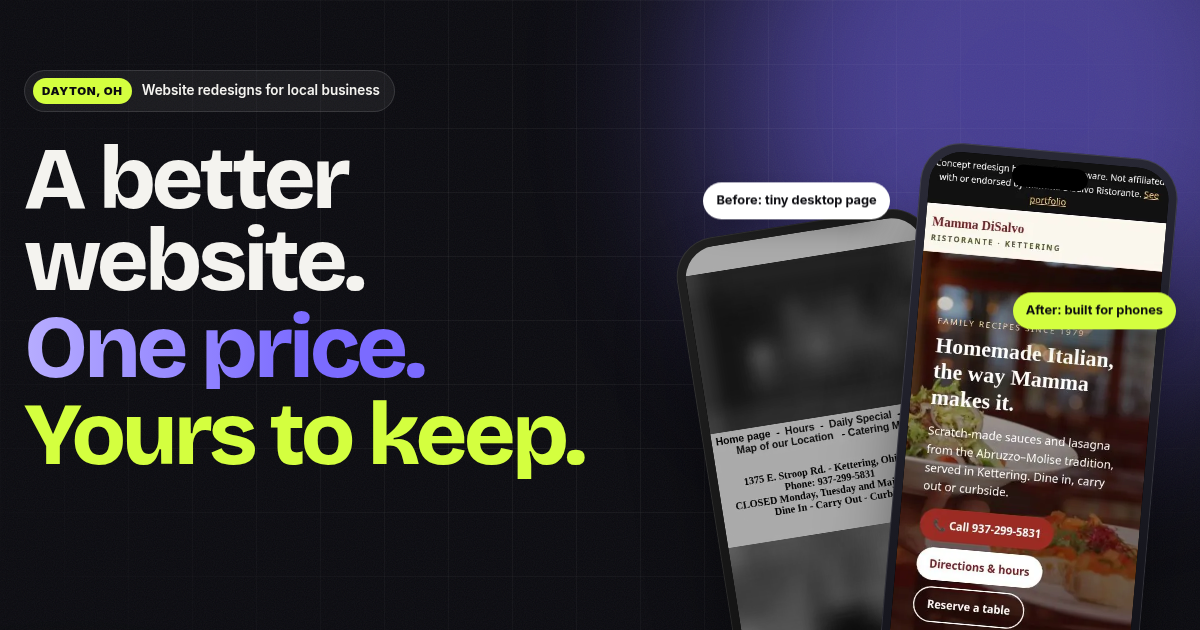
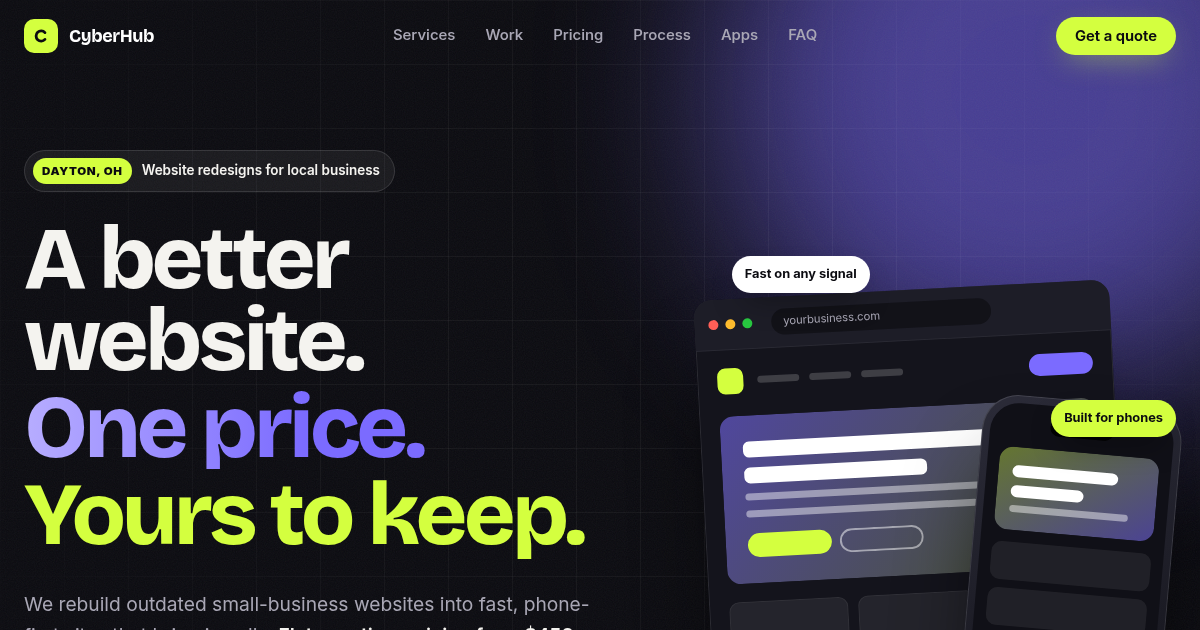
Remove real-business before/afters, portfolio links and images; neutral hero mockup, 'what a redesign includes' section, new OG image

diff --git a/index.html b/index.html
@@ -64,7 +64,7 @@
       <p class="lede" data-reveal style="--d:.35s">We rebuild outdated small-business websites into fast, phone-first sites that bring in calls. <strong>Flat one-time pricing from $450</strong>, a 30-day fix window, and your domain and hosting stay in your name. No monthly fees from us.</p>
       <div class="hero-ctas" data-reveal style="--d:.45s">
         <a class="btn btn-lime" href="mailto:contact@cyberhubsoftware.com?subject=Free%20website%20review">Get a free review <span class="arr" aria-hidden="true">→</span></a>
-        <a class="btn btn-ghost" href="#work">See before &amp; after</a>
+        <a class="btn btn-ghost" href="#work">See what's included</a>
       </div>
       <ul class="hero-facts" data-reveal style="--d:.55s">
         <li><b>$0</b><span>monthly fees</span></li>
@@ -73,13 +73,26 @@
         <li><b>1–3 wks</b><span>typical build</span></li>
       </ul>
     </div>
-    <div class="phones" aria-hidden="true" data-reveal style="--d:.3s">
-      <div class="phone before"><div class="screen"><img src="assets/work/mamma-disalvo-before.webp" alt="" width="390" height="844"></div></div>
-      <div class="phone after"><div class="island"></div><div class="screen"><img src="assets/work/mamma-disalvo-after.webp" alt="" width="390" height="844"></div></div>
-      <span class="tag-float t1 float">Before: tiny desktop page</span>
-      <span class="tag-float t2 float d2">After: built for phones</span>
+    <div class="mock" aria-hidden="true" data-reveal style="--d:.3s">
+      <div class="mock-browser">
+        <div class="mb-bar"><i></i><i></i><i></i><span class="mb-url">yourbusiness.com</span></div>
+        <div class="mb-body">
+          <div class="mb-nav"><span class="mb-logo"></span><span class="mb-links"><b></b><b></b><b></b></span><span class="mb-btn"></span></div>
+          <div class="mb-hero"><span class="mb-h w80"></span><span class="mb-h w55"></span><span class="mb-p"></span><span class="mb-p w70"></span><span class="mb-ctas"><b></b><b></b></span></div>
+          <div class="mb-cards"><span></span><span></span><span></span></div>
+        </div>
+      </div>
+      <div class="mock-phone">
+        <div class="mp-screen">
+          <div class="mp-island"></div>
+          <div class="mp-hero"><span class="mb-h w80"></span><span class="mb-h w55"></span><span class="mb-p"></span></div>
+          <div class="mp-rows"><span></span><span></span><span></span></div>
+          <div class="mp-call">Call now</div>
+        </div>
+      </div>
+      <span class="tag-float t1 float">Fast on any signal</span>
+      <span class="tag-float t2 float d2">Built for phones</span>
       <span class="tag-float t3 float d3">Tap to call ✓</span>
-      <span class="hero-note">Concept redesign, not affiliated with the business</span>
     </div>
   </div>
   <div class="marquee" aria-hidden="true">
@@ -140,64 +153,41 @@
   <div class="wrap">
     <div class="sec-head">
       <div data-reveal>
-        <p class="kicker">Before &amp; after</p>
-        <h2>Same business.<br>A whole new first impression.</h2>
+        <p class="kicker">What a redesign includes</p>
+        <h2>Out with the old site. <br>In with one that works.</h2>
       </div>
-      <p class="lede" data-reveal style="--d:.1s">Concept redesigns of real Dayton-area websites, shown on a phone. Drag the slider to compare the current site with our concept.</p>
+      <p class="lede" data-reveal style="--d:.1s">Here's what changes when we rebuild a typical small-business website, from the first tap on a phone to the call that comes in.</p>
     </div>
-    <div class="cases">
-      <article class="case" data-reveal>
-        <div class="compare">
-          <div class="screen">
-            <img src="assets/work/mamma-disalvo-before.webp" alt="Before: the current Mamma DiSalvo homepage on a phone, a shrunken desktop layout (logo and photos pixelated)" width="390" height="844" loading="lazy">
-            <img class="after-img" src="assets/work/mamma-disalvo-after.webp" alt="After: CyberHub's concept redesign for Mamma DiSalvo on a phone" width="390" height="844" loading="lazy">
-          </div>
-          <span class="lbl b" aria-hidden="true">Before</span><span class="lbl a" aria-hidden="true">After</span>
-          <span class="divider" aria-hidden="true"></span>
-          <span class="knob" aria-hidden="true"><svg width="20" height="20" viewBox="0 0 24 24" fill="none" stroke="currentColor" stroke-width="2.4" stroke-linecap="round" stroke-linejoin="round"><path d="m9 6-6 6 6 6M15 6l6 6-6 6"/></svg></span>
-          <input type="range" min="0" max="100" value="50" step="1" aria-label="Compare before and after for Mamma DiSalvo">
-        </div>
-        <h3>Mamma DiSalvo Ristorante</h3>
-        <p class="where">Italian restaurant · Kettering</p>
-        <span class="concept">Concept redesign · not affiliated</span>
-        <a class="view" href="https://cyberhub28-dotcom.github.io/cyberhub-portfolio/mamma-disalvo/">View the concept →</a>
-      </article>
-      <article class="case" data-reveal style="--d:.1s">
-        <div class="compare">
-          <div class="screen">
-            <img src="assets/work/down-the-pike-before.webp" alt="Before: the current Down the Pike Bar homepage on a phone, an old Weebly layout (logo and photos pixelated)" width="390" height="844" loading="lazy">
-            <img class="after-img" src="assets/work/down-the-pike-after.webp" alt="After: CyberHub's concept redesign for Down the Pike Bar on a phone" width="390" height="844" loading="lazy">
-          </div>
-          <span class="lbl b" aria-hidden="true">Before</span><span class="lbl a" aria-hidden="true">After</span>
-          <span class="divider" aria-hidden="true"></span>
-          <span class="knob" aria-hidden="true"><svg width="20" height="20" viewBox="0 0 24 24" fill="none" stroke="currentColor" stroke-width="2.4" stroke-linecap="round" stroke-linejoin="round"><path d="m9 6-6 6 6 6M15 6l6 6-6 6"/></svg></span>
-          <input type="range" min="0" max="100" value="50" step="1" aria-label="Compare before and after for Down the Pike Bar">
-        </div>
-        <h3>Down the Pike Bar</h3>
-        <p class="where">Bar &amp; grill · West Carrollton</p>
-        <span class="concept">Concept redesign · not affiliated</span>
-        <a class="view" href="https://cyberhub28-dotcom.github.io/cyberhub-portfolio/down-the-pike/">View the concept →</a>
-      </article>
-      <article class="case" data-reveal style="--d:.2s">
-        <div class="compare">
-          <div class="screen">
-            <img src="assets/work/ramke-before.webp" alt="Before: the current Ramke Chiropractic homepage on a phone, a shrunken table layout (photos pixelated)" width="390" height="844" loading="lazy">
-            <img class="after-img" src="assets/work/ramke-after.webp" alt="After: CyberHub's concept redesign for Ramke Chiropractic on a phone" width="390" height="844" loading="lazy">
-          </div>
-          <span class="lbl b" aria-hidden="true">Before</span><span class="lbl a" aria-hidden="true">After</span>
-          <span class="divider" aria-hidden="true"></span>
-          <span class="knob" aria-hidden="true"><svg width="20" height="20" viewBox="0 0 24 24" fill="none" stroke="currentColor" stroke-width="2.4" stroke-linecap="round" stroke-linejoin="round"><path d="m9 6-6 6 6 6M15 6l6 6-6 6"/></svg></span>
-          <input type="range" min="0" max="100" value="50" step="1" aria-label="Compare before and after for Ramke Chiropractic">
-        </div>
-        <h3>Ramke Chiropractic</h3>
-        <p class="where">Chiropractor · Centerville</p>
-        <span class="concept">Concept redesign · not affiliated</span>
-        <a class="view" href="https://cyberhub28-dotcom.github.io/cyberhub-portfolio/ramke-chiropractic/">View the concept →</a>
-      </article>
+    <div class="shift" data-reveal>
+      <div class="shift-col old">
+        <p class="shift-h">The typical outdated site</p>
+        <ul>
+          <li>A tiny desktop page you have to pinch and zoom</li>
+          <li>Phone number buried in a footer or an image</li>
+          <li>Menu or services stuck in a PDF</li>
+          <li>Hours that are hard to find or out of date</li>
+          <li>Slow page builders and autoplaying clutter</li>
+        </ul>
+      </div>
+      <div class="shift-arrow" aria-hidden="true"><svg width="28" height="28" viewBox="0 0 24 24" fill="none" stroke="currentColor" stroke-width="2.4" stroke-linecap="round" stroke-linejoin="round"><path d="M5 12h14M13 6l6 6-6 6"/></svg></div>
+      <div class="shift-col new">
+        <p class="shift-h">Your CyberHub site</p>
+        <ul>
+          <li>Phone-first layout with text you can read at a glance</li>
+          <li>Tap-to-call and one-tap directions on every screen</li>
+          <li>A real web menu or services list Google can read</li>
+          <li>Hours, location and contact right up front</li>
+          <li>Lightweight static pages that load quickly</li>
+        </ul>
+      </div>
     </div>
-    <div class="work-foot" data-reveal>
-      <p>These are unsolicited concept redesigns. They are not affiliated with or endorsed by the businesses shown. "Before" images are phone screenshots of each public homepage taken Oct 18, 2026, with logos and photos of people pixelated. Concepts use free-license stock photos only.</p>
-      <a class="btn btn-ghost" href="https://cyberhub28-dotcom.github.io/cyberhub-portfolio/">Full portfolio <span class="arr" aria-hidden="true">→</span></a>
+    <div class="soon" data-reveal>
+      <span class="soon-dot" aria-hidden="true"></span>
+      <div>
+        <h3>Sample designs coming soon</h3>
+        <p>We're putting together before-and-after sample designs to show here. Want to see what your own site could look like? Ask for a free review.</p>
+      </div>
+      <a class="btn btn-lime" href="mailto:contact@cyberhubsoftware.com?subject=Free%20website%20review">Get a free review <span class="arr" aria-hidden="true">→</span></a>
     </div>
   </div>
 </section>
@@ -393,7 +383,7 @@
   <p class="bigword" aria-hidden="true">CyberHub</p>
   <div class="wrap row">
     <span>© 2026 CyberHub Software, LLC · Dayton, Ohio, USA. All rights reserved.</span>
-    <span><a href="https://cyberhub28-dotcom.github.io/dinneragent-site/privacy">Dinner Agent privacy</a> · <a href="https://cyberhub28-dotcom.github.io/cyberhub-portfolio/">Portfolio</a></span>
+    <span><a href="https://cyberhub28-dotcom.github.io/dinneragent-site/privacy">Dinner Agent privacy</a></span>
     <span><a href="credits.html">Credits</a></span>
   </div>
 </footer>

diff --git a/assets/css/site.css b/assets/css/site.css
@@ -326,3 +326,63 @@ footer a{color:var(--on-ink)}
 }
 
 @media (max-width:620px){h2 br{display:none}.pill{font-size:.8rem}}
+
+/* Hero: neutral CSS-only design mockup */
+.mock{position:relative;height:560px;perspective:1400px}
+.mock-browser{position:absolute;left:0;top:40px;width:88%;border-radius:18px;overflow:hidden;background:#14141c;box-shadow:0 50px 90px -30px rgba(0,0,0,.8),inset 0 0 0 1px rgba(255,255,255,.1);transform:rotate(-3deg)}
+.mb-bar{display:flex;align-items:center;gap:7px;padding:12px 14px;background:#1d1d27;border-bottom:1px solid rgba(255,255,255,.06)}
+.mb-bar i{width:10px;height:10px;border-radius:50%;background:#3a3a48}
+.mb-bar i:first-child{background:#ff5f57}.mb-bar i:nth-child(2){background:#febc2e}.mb-bar i:nth-child(3){background:#28c840}
+.mb-url{margin-left:12px;flex:1;max-width:220px;font-size:.7rem;color:var(--on-ink-muted);background:#121218;border-radius:999px;padding:4px 12px}
+.mb-body{padding:18px 20px 22px}
+.mb-nav{display:flex;align-items:center;gap:14px}
+.mb-logo{width:26px;height:26px;border-radius:8px;background:var(--lime)}
+.mb-links{display:flex;gap:10px;flex:1}.mb-links b{width:42px;height:7px;border-radius:4px;background:rgba(255,255,255,.18)}
+.mb-btn{width:64px;height:22px;border-radius:999px;background:var(--violet)}
+.mb-hero{margin:22px 0 18px;padding:26px 22px;border-radius:14px;background:linear-gradient(130deg,rgba(123,107,255,.55),rgba(212,255,63,.25)),#1b1b26;display:flex;flex-direction:column;gap:10px}
+.mb-h{display:block;height:16px;border-radius:6px;background:#fff}
+.mb-p{display:block;height:7px;border-radius:4px;background:rgba(255,255,255,.45);width:90%}
+.w80{width:80%}.w55{width:55%}.w70{width:70%}
+.mb-ctas{display:flex;gap:8px;margin-top:6px}.mb-ctas b{width:84px;height:24px;border-radius:999px;background:var(--lime)}.mb-ctas b+b{background:transparent;box-shadow:inset 0 0 0 2px rgba(255,255,255,.5)}
+.mb-cards{display:grid;grid-template-columns:repeat(3,1fr);gap:10px}.mb-cards span{height:64px;border-radius:10px;background:rgba(255,255,255,.07);box-shadow:inset 0 0 0 1px rgba(255,255,255,.06)}
+.mock-phone{position:absolute;right:2%;top:150px;width:200px;aspect-ratio:390/800;border-radius:36px;padding:8px;background:linear-gradient(160deg,#2b2b38,#0f0f15);box-shadow:0 50px 90px -30px rgba(0,0,0,.85),inset 0 0 0 1px rgba(255,255,255,.12);transform:rotate(5deg);z-index:2}
+.mp-screen{position:relative;height:100%;border-radius:29px;overflow:hidden;background:#101017;padding:44px 12px 12px;display:flex;flex-direction:column;gap:12px}
+.mp-island{position:absolute;top:12px;left:50%;width:64px;height:18px;margin-left:-32px;border-radius:20px;background:#000}
+.mp-hero{padding:18px 14px;border-radius:14px;background:linear-gradient(150deg,rgba(212,255,63,.4),rgba(123,107,255,.5)),#1b1b26;display:flex;flex-direction:column;gap:8px}
+.mp-hero .mb-h{height:12px}
+.mp-rows{display:flex;flex-direction:column;gap:8px;flex:1}.mp-rows span{height:38px;border-radius:10px;background:rgba(255,255,255,.07)}
+.mp-call{text-align:center;font-weight:800;font-size:.8rem;color:var(--ink);background:var(--lime);border-radius:999px;padding:10px}
+@media (max-width:1060px){.mock{height:500px}.mock-phone{width:176px}}
+@media (max-width:900px){.mock{height:440px;max-width:460px;margin:10px auto 0;width:100%}.mock-browser{top:30px;width:90%}.mock-phone{top:120px;width:160px}}
+@media (max-width:420px){.mock{height:380px}.mock-phone{width:140px;top:110px}.mb-body{padding:14px}.mb-links b{width:26px}.mb-cards span{height:44px}}
+
+/* What a redesign includes */
+.shift{display:grid;grid-template-columns:1fr auto 1fr;gap:28px;align-items:stretch}
+.shift-col{border-radius:24px;padding:32px 30px}
+.shift-col.old{background:rgba(255,255,255,.04);box-shadow:inset 0 0 0 1px var(--line-ink)}
+.shift-col.new{background:linear-gradient(150deg,rgba(212,255,63,.14),rgba(123,107,255,.16));box-shadow:inset 0 0 0 1px rgba(212,255,63,.35)}
+.shift-h{margin:0 0 18px;font-size:.78rem;font-weight:800;letter-spacing:.1em;text-transform:uppercase}
+.old .shift-h{color:var(--on-ink-muted)}.new .shift-h{color:var(--lime)}
+.shift ul{list-style:none;margin:0;padding:0;display:grid;gap:14px}
+.shift li{position:relative;padding-left:30px;line-height:1.45}
+.old li{color:var(--on-ink-muted)}
+.old li::before{content:"";position:absolute;left:4px;top:.6em;width:12px;height:2px;background:#ff6b6b;transform:rotate(45deg)}
+.old li::after{content:"";position:absolute;left:4px;top:.6em;width:12px;height:2px;background:#ff6b6b;transform:rotate(-45deg)}
+.new li::before{content:"";position:absolute;left:2px;top:.2em;width:18px;height:18px;border-radius:50%;background:var(--lime)}
+.new li::after{content:"";position:absolute;left:8px;top:calc(.2em + 4px);width:5px;height:9px;border:solid var(--ink);border-width:0 2px 2px 0;transform:rotate(45deg)}
+.shift-arrow{align-self:center;width:56px;height:56px;border-radius:50%;display:grid;place-items:center;background:var(--lime);color:var(--ink);box-shadow:0 0 30px rgba(212,255,63,.35)}
+.soon{display:flex;align-items:center;gap:22px;flex-wrap:wrap;margin-top:56px;padding:26px 30px;border-radius:22px;background:rgba(255,255,255,.04);box-shadow:inset 0 0 0 1px var(--line-ink)}
+.soon>div{flex:1;min-width:240px}
+.soon h3{margin:0 0 4px;font-size:1.25rem}
+.soon p{margin:0;color:var(--on-ink-muted);font-size:.95rem}
+.soon-dot{width:12px;height:12px;border-radius:50%;background:var(--lime);box-shadow:0 0 0 6px rgba(212,255,63,.18);animation:soonPulse 2s ease-in-out infinite}
+@keyframes soonPulse{50%{box-shadow:0 0 0 12px rgba(212,255,63,0)}}
+@media (max-width:900px){.shift{grid-template-columns:1fr}.shift-arrow{justify-self:center;transform:rotate(90deg)}}
+@media (prefers-reduced-motion:reduce){.soon-dot{animation:none}}
+.mock-browser{animation:mockA 7s ease-in-out infinite}
+.mock-phone{animation:mockB 6s ease-in-out infinite -2s}
+@keyframes mockA{50%{transform:rotate(-3deg) translateY(-8px)}}
+@keyframes mockB{50%{transform:rotate(5deg) translateY(-12px)}}
+@media (prefers-reduced-motion:reduce){.mock-browser,.mock-phone{animation:none}}
+.mock .tag-float.t1{top:6px;left:6%}
+@media (max-width:420px){.mock{height:430px}.mock-phone{top:96px}}

diff --git a/credits.html b/credits.html
@@ -13,11 +13,8 @@
 <h1>Credits</h1>
 <h2>Fonts</h2>
 <p>Bricolage Grotesque (The Bricolage Grotesque Project Authors) and Inter (The Inter Project Authors), both under the <a href="https://openfontlicense.org/">SIL Open Font License 1.1</a>. Self-hosted; license texts are in <code>assets/fonts/</code>.</p>
-<h2>Before &amp; after images</h2>
-<p>"After" images are screenshots of CyberHub Software's own concept redesigns. Photos inside those concepts are free stock images from <a href="https://www.pexels.com">Pexels</a> under the <a href="https://www.pexels.com/license/">Pexels License</a>; see the <a href="https://cyberhub28-dotcom.github.io/cyberhub-portfolio/credits.html">portfolio credits</a> for each photo and photographer.</p>
-<p>"Before" images are phone-width screenshots of each business's public homepage, taken by CyberHub Software on Oct 18, 2026, shown only for before/after comparison, with logos and photos of people pixelated. The concepts are not affiliated with or endorsed by those businesses.</p>
 <h2>Everything else</h2>
-<p>Icons, illustrations and layout are original to CyberHub Software. No other photos are used.</p>
+<p>Icons, illustrations and layout are original to CyberHub Software. The site uses no photos.</p>
 <p><a href="./">← Back to CyberHub Software</a></p>
 </main>
 </body>
